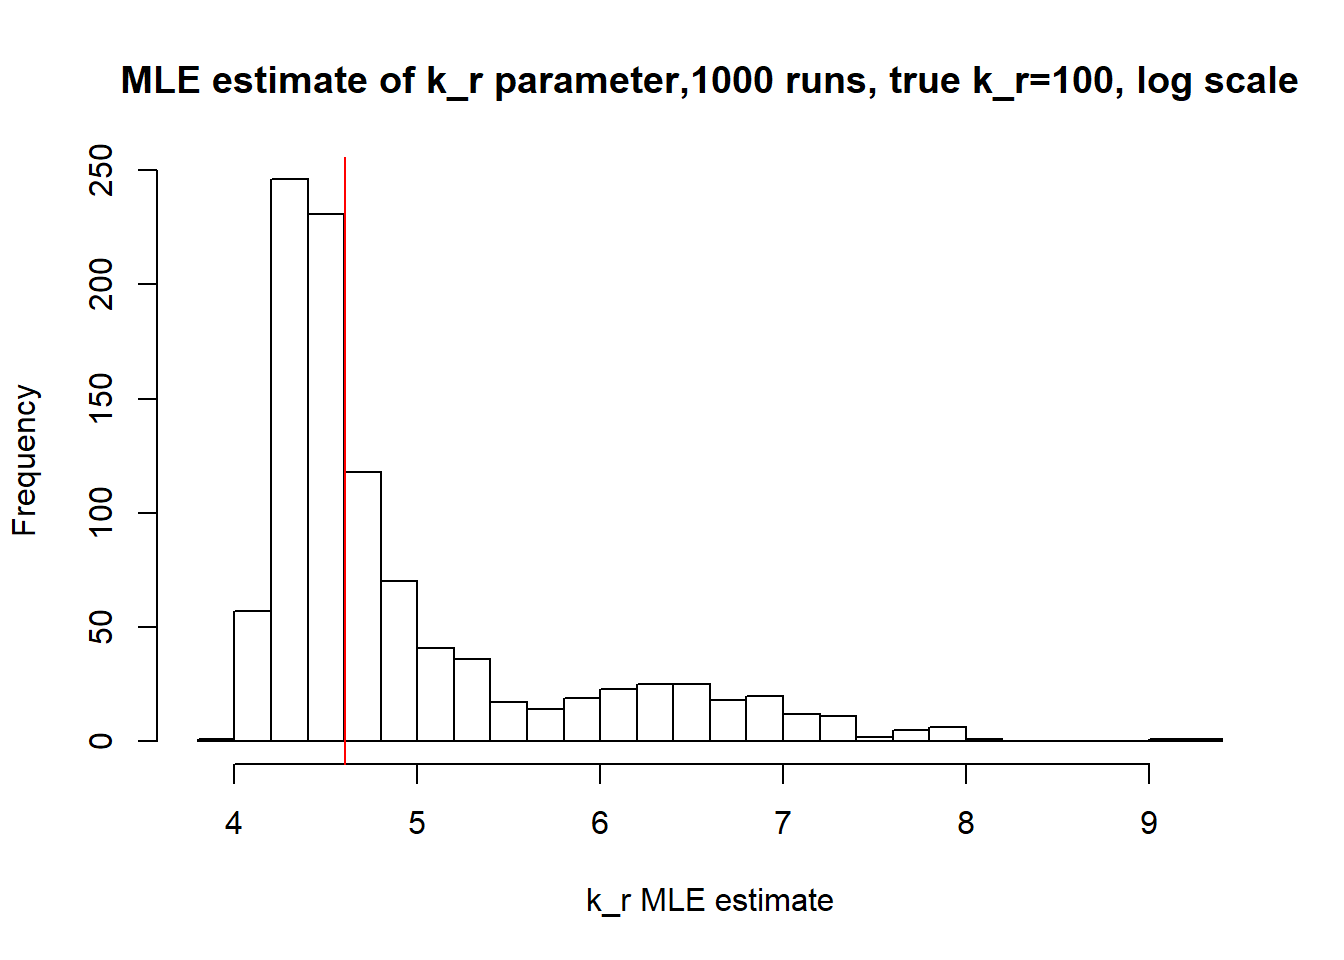
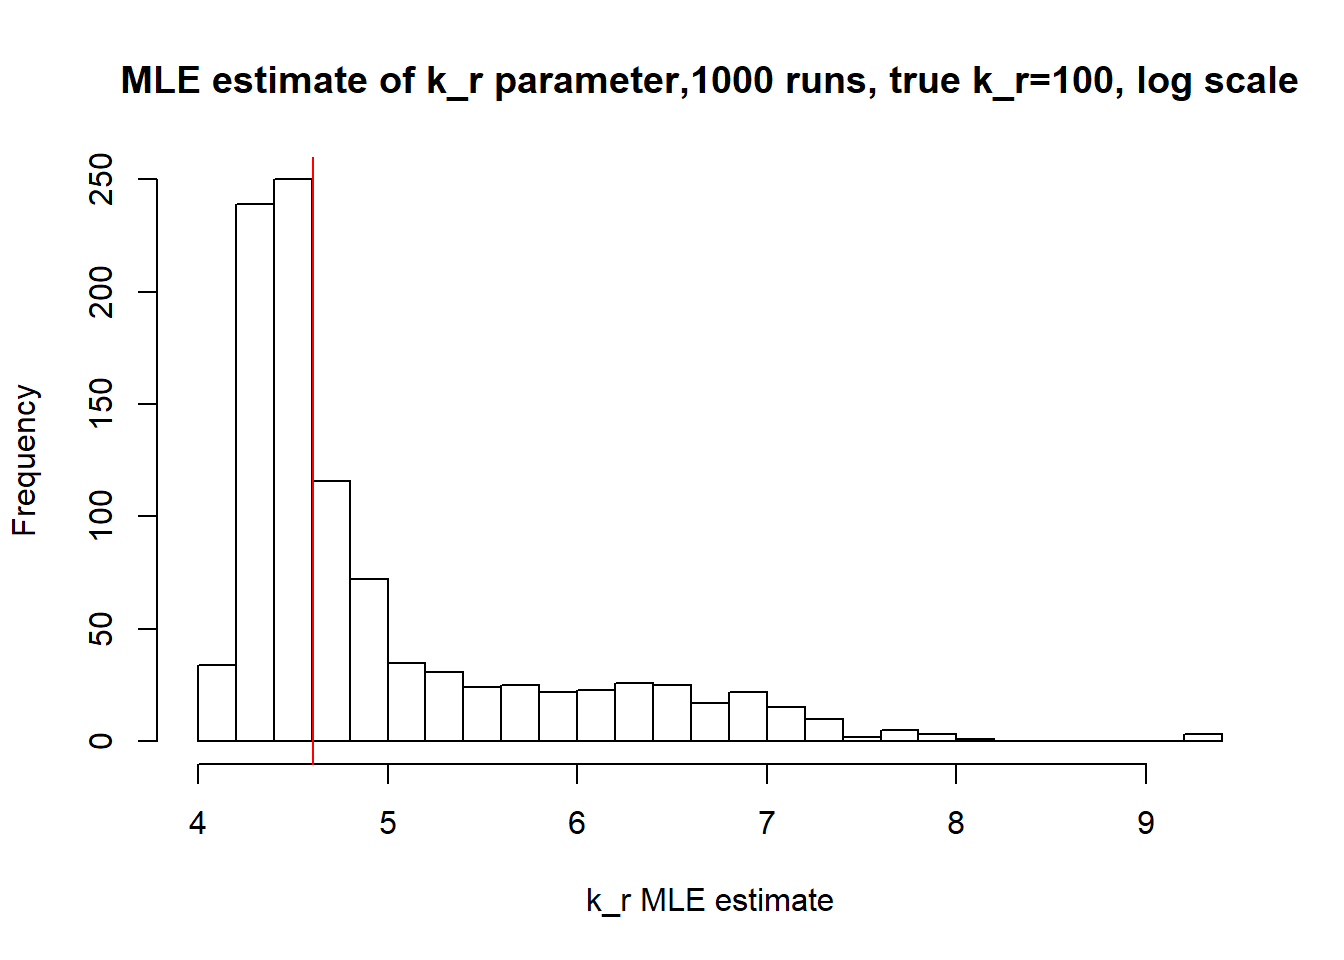
Build site.

diff --git a/docs/MLE_estimates.html b/docs/MLE_estimates.html
@@ -344,7 +344,7 @@ div.section {
 <div class="tab-content">
 <div id="summary" class="tab-pane fade in active">
 <p>
-<strong>Last updated:</strong> 2019-12-21
+<strong>Last updated:</strong> 2019-12-25
 </p>
 <p>
 <strong>Checks:</strong> <span class="glyphicon glyphicon-ok text-success" aria-hidden="true"></span> 6 <span class="glyphicon glyphicon-exclamation-sign text-danger" aria-hidden="true"></span> 1
@@ -359,7 +359,7 @@ This reproducible <a href="http://rmarkdown.rstudio.com">R Markdown</a> analysis
 <hr>
 </div>
 <div id="checks" class="tab-pane fade">
-<div class="panel-group" id="workflowr-checks">
+<div id="workflowr-checks" class="panel-group">
 <div class="panel panel-default">
 <div class="panel-heading">
 <p class="panel-title">
@@ -459,10 +459,10 @@ analysis/MLE.py
 <div class="panel panel-default">
 <div class="panel-heading">
 <p class="panel-title">
-<a data-toggle="collapse" data-parent="#workflowr-checks" href="#strongRepositoryversionstrongahrefhttpsgithubcomMargareth2407ThesissingleRNAtree4f04f01562acaa952ee0c942a661b1bf4d9dd845targetblank4f04f01a"> <span class="glyphicon glyphicon-ok text-success" aria-hidden="true"></span> <strong>Repository version:</strong> <a href="https://github.com/Margareth2407/Thesis_single_RNA/tree/4f04f01562acaa952ee0c942a661b1bf4d9dd845" target="_blank">4f04f01</a> </a>
+<a data-toggle="collapse" data-parent="#workflowr-checks" href="#strongRepositoryversionstrongahrefhttpsgithubcomMargareth2407ThesissingleRNAtree2bc1ff5e52b6066f161ee2dd56464614759ae28dtargetblank2bc1ff5a"> <span class="glyphicon glyphicon-ok text-success" aria-hidden="true"></span> <strong>Repository version:</strong> <a href="https://github.com/Margareth2407/Thesis_single_RNA/tree/2bc1ff5e52b6066f161ee2dd56464614759ae28d" target="_blank">2bc1ff5</a> </a>
 </p>
 </div>
[2 lines of base64/hex data omitted]
 <div class="panel-body">
 <p>
 Great! You are using Git for version control. Tracking code development and connecting the code version to the results is critical for reproducibility. The version displayed above was the version of the Git repository at the time these results were generated. <br><br> Note that you need to be careful to ensure that all relevant files for the analysis have been committed to Git prior to generating the results (you can use <code>wflow_publish</code> or <code>wflow_git_commit</code>). workflowr only checks the R Markdown file, but you know if there are other scripts or data files that it depends on. Below is the status of the Git repository when the results were generated:
@@ -481,6 +481,7 @@ Untracked files:
 
 Unstaged changes:
     Modified:   Data_sim.Rmd
+    Deleted:    analysis/Data_sim.Rmd
     Modified:   analysis/MLE.py
     Modified:   analysis/MLE_bootstrap.Rmd
 
@@ -504,51 +505,65 @@ There are no past versions. Publish this analysis with <code>wflow_publish()</co
 </div>
 <div id="mle-estimates-and-sampling-variability" class="section level1">
 <h1>MLE estimates and sampling variability</h1>
-<p>In this section we infer point estimates <span class="math inline">\(k_{on}\)</span>,<span class="math inline">\(k_{off}\)</span> and <span class="math inline">\(k_r\)</span> by maximum likelihood and estimate sampling variability of MLE.</p>
-<p>Now we will implement the method above, using code provided by Larsson et al. publication. Since the original code is in python, we have to source it from MLE.py script, generate 1000 datasets with same <span class="math inline">\(k_{on}\)</span>,<span class="math inline">\(k_{off}\)</span> and <span class="math inline">\(k_r\)</span> and get the point estimates. We repeat this process 4 times with different <span class="math inline">\(k_{on}\)</span>,<span class="math inline">\(k_{off}\)</span> scenarios.</p>
+<p>In this section we infer parameter estimates by maximum likelihood and estimate sampling variability of MLE.</p>
+<p>As explained in previous data simulation section, mRNA gene expression can be modelled as three or four parameter model.</p>
+<p>For three-parameter model probability distribution is:</p>
+<p><span class="math inline">\(P(X\leq x) = \int_0^{1} P(X\leq x|k_r*p)f(p)dp=\frac{1}{B(k_{on},k_{off})}\int_0^{1} P(X\leq x|k_r*p)p^{k_{on}-1}(1-p)^{k_{off}-1}dp\)</span></p>
+<p>Using <span class="math inline">\(t=2p-1\)</span>, <span class="math inline">\(p=\frac{t+1}{2}\)</span> and <span class="math inline">\(dt=2dp\)</span> we have</p>
+<p><span class="math inline">\(\frac{1}{B(k_{on},k_{off})}\frac{1}{2^{k_{on}+k_{off}-1}}\int_{-1}^{1} P(X\leq x|\frac{k_r(t+1)}{2})(1+t)^{k_{on}-1}(1-t)^{k_{off}-1}\)</span>, the integral can be computed with the use of Gauss-Jacobi quadrature method.</p>
+<p>And as we discussed previously, <span class="math inline">\(BetaPoisson(x|k_{on},k_{off},k_r,d) = BetaPoisson(\frac{x}{d}|k_{on},k_{off},k_r)\)</span>, so same applies to the probability distribution of four-parameter model.</p>
+<p>Using pdf of the model we can calculate log-likelihood for the data <span class="math inline">\(logL(k_{on},k_{off},k_{r},d)=\sum_x n(x) log(p(\frac{x}{d}|k_{on},k_{off},k_{r}))\)</span>, where <span class="math inline">\(n(x)\)</span> is the number of cells with mRNA expression level equal to x.</p>
+<p>To optimize the computations, we will choose initial values using method of moments.</p>
+<p>E(X) and Var(X) can be estimated from the data directly</p>
+<p><span class="math inline">\(Var(X|k_r*p)=E(X|k_r*p)=k_r*p\)</span> as mean and variance of Poisson distribution</p>
+<p><span class="math inline">\(E(X)=E(E(X|k_r*p))=k_r*\frac{k_{on}}{k_{on}+k_{off}}\)</span> by Tower Law</p>
+<p><span class="math inline">\(Var(X)=E(Var(X|k_r*p))+Var(E(X|k_r*p))=E(k_r*p) + Var(k_r*p) = k_r\frac{k_{on}}{k_{on}+k_{off}} + k_r^2\frac{k_{on}*k_{off}}{(k_{on}+k_{off})^2(k_{on}+k_{off}+1)}\)</span> by law of total variance.</p>
+<p>From that we can estimate <span class="math inline">\(k_{on}=\frac{E(X)}{k_r}(\frac{E(X)(k_r-E(X))}{Var(X)-E(X)}-1)\)</span> and <span class="math inline">\(k_{off}=k_{on}*\frac{k_r-E(X)}{E(X)}\)</span></p>
+<p>d is estimated as 0.1*median(X), if this value is less then 1.0 and 1.0 otherwise. After we choose d, we also scale data prior to other parameter initialization. Initial estimate of <span class="math inline">\(k_r\)</span> is chosen to be max(X).</p>
+<p>Now we will implement the method above, using code provided by Larsson et al. publication. Since the original code is in python, we have to source it from MLE.py script, generate 1000 datasets with same <span class="math inline">\(k_{on}\)</span>,<span class="math inline">\(k_{off}\)</span> and <span class="math inline">\(k_r\)</span> and get the point estimates. We repeat this process 4 times with different <span class="math inline">\(k_{on}\)</span>,<span class="math inline">\(k_{off}\)</span> scenarios.</p>
 <pre><code>Warning: package &#39;reticulate&#39; was built under R version 3.5.3</code></pre>
 <pre><code>Warning: package &#39;robustbase&#39; was built under R version 3.5.1</code></pre>
 <div id="i-small-k_on-and-k_off-case" class="section level2">
 <h2>I) Small <span class="math inline">\(k_{on}\)</span> and <span class="math inline">\(k_{off}\)</span> case:</h2>
 <p><img src="figure/MLE_estimates.Rmd/unnamed-chunk-2-1.png" width="672" style="display: block; margin: auto;" /></p>
-<pre><code>[1] &quot;true k_on is 0.1; k_on mean 0.1 k_on median 0.099&quot;</code></pre>
+<pre><code>[1] &quot;true k_on is 0.1; k_on mean 0.101 k_on median 0.1&quot;</code></pre>
 <p><img src="figure/MLE_estimates.Rmd/unnamed-chunk-2-2.png" width="672" style="display: block; margin: auto;" /></p>
-<pre><code>[1] &quot;true k_off is 0.1; k_off mean 0.101 k_off median 0.098&quot;</code></pre>
+<pre><code>[1] &quot;true k_off is 0.1; k_off mean 0.103 k_off median 0.101&quot;</code></pre>
 <p><img src="figure/MLE_estimates.Rmd/unnamed-chunk-2-3.png" width="672" style="display: block; margin: auto;" /></p>
-<pre><code>[1] &quot;true k_r is 100; k_r mean 100.035 k_r median 100.048&quot;</code></pre>
+<pre><code>[1] &quot;true k_r is 100; k_r mean 99.989 k_r median 99.991&quot;</code></pre>
 <p><img src="figure/MLE_estimates.Rmd/unnamed-chunk-2-4.png" width="672" style="display: block; margin: auto;" /><img src="figure/MLE_estimates.Rmd/unnamed-chunk-2-5.png" width="672" style="display: block; margin: auto;" /><img src="figure/MLE_estimates.Rmd/unnamed-chunk-2-6.png" width="672" style="display: block; margin: auto;" /></p>
 <p>Small <span class="math inline">\(k_{on}\)</span> and <span class="math inline">\(k_{off}\)</span> leads to bimodal distribution. As we see from histograms, mean and median MLE estimates are centered around true value.</p>
 </div>
 <div id="ii-large-k_on-and-k_off-case" class="section level2">
 <h2>II) Large <span class="math inline">\(k_{on}\)</span> and <span class="math inline">\(k_{off}\)</span> case:</h2>
 <p><img src="figure/MLE_estimates.Rmd/unnamed-chunk-3-1.png" width="672" style="display: block; margin: auto;" /></p>
-<pre><code>[1] &quot;true k_on is 10; k_on mean 11.49 k_on median 9.743&quot;</code></pre>
+<pre><code>[1] &quot;true k_on is 10; k_on mean 11.683 k_on median 9.893&quot;</code></pre>
 <p><img src="figure/MLE_estimates.Rmd/unnamed-chunk-3-2.png" width="672" style="display: block; margin: auto;" /></p>
-<pre><code>[1] &quot;true k_off is 10; k_off mean 70.312 k_off median 8.611&quot;</code></pre>
+<pre><code>[1] &quot;true k_off is 10; k_off mean 70.771 k_off median 9.249&quot;</code></pre>
 <p><img src="figure/MLE_estimates.Rmd/unnamed-chunk-3-3.png" width="672" style="display: block; margin: auto;" /></p>
-<pre><code>[1] &quot;true k_r is 100; k_r mean 253.411 k_r median 95.224&quot;</code></pre>
+<pre><code>[1] &quot;true k_r is 100; k_r mean 264.192 k_r median 97.03&quot;</code></pre>
 <p><img src="figure/MLE_estimates.Rmd/unnamed-chunk-3-4.png" width="672" style="display: block; margin: auto;" /><img src="figure/MLE_estimates.Rmd/unnamed-chunk-3-5.png" width="672" style="display: block; margin: auto;" /><img src="figure/MLE_estimates.Rmd/unnamed-chunk-3-6.png" width="672" style="display: block; margin: auto;" /></p>
 <p>Large <span class="math inline">\(k_{on}\)</span> and <span class="math inline">\(k_{off}\)</span> case lead to Poisson or negative binomial distribution and as we can see parameters are not identifiable.</p>
 </div>
 <div id="iii-large-value-if-k_off-and-small-k_on-case" class="section level2">
 <h2>III) Large value if <span class="math inline">\(k_{off}\)</span> and small <span class="math inline">\(k_{on}\)</span> case:</h2>
 <p><img src="figure/MLE_estimates.Rmd/unnamed-chunk-4-1.png" width="672" style="display: block; margin: auto;" /></p>
-<pre><code>[1] &quot;true k_on is 1; k_on mean 0.989 k_on median 0.975&quot;</code></pre>
+<pre><code>[1] &quot;true k_on is 1; k_on mean 0.98 k_on median 0.959&quot;</code></pre>
 <p><img src="figure/MLE_estimates.Rmd/unnamed-chunk-4-2.png" width="672" style="display: block; margin: auto;" /></p>
-<pre><code>[1] &quot;true k_off is 10; k_off mean 37.978 k_off median 7.091&quot;</code></pre>
+<pre><code>[1] &quot;true k_off is 10; k_off mean 38.834 k_off median 6.684&quot;</code></pre>
 <p><img src="figure/MLE_estimates.Rmd/unnamed-chunk-4-3.png" width="672" style="display: block; margin: auto;" /></p>
-<pre><code>[1] &quot;true k_r is 100; k_r mean 318.285 k_r median 75.216&quot;</code></pre>
+<pre><code>[1] &quot;true k_r is 100; k_r mean 327.105 k_r median 72.758&quot;</code></pre>
 <p><img src="figure/MLE_estimates.Rmd/unnamed-chunk-4-4.png" width="672" style="display: block; margin: auto;" /><img src="figure/MLE_estimates.Rmd/unnamed-chunk-4-5.png" width="672" style="display: block; margin: auto;" /><img src="figure/MLE_estimates.Rmd/unnamed-chunk-4-6.png" width="672" style="display: block; margin: auto;" /></p>
 <p>k_on parameter being estimated correctly, while k_off and k_r are non-identifiable.</p>
 </div>
 <div id="iv-small-value-if-k_off-and-big-k_on" class="section level2">
 <h2>IV) Small value if <span class="math inline">\(k_{off}\)</span> and big <span class="math inline">\(k_{on}\)</span></h2>
 <p><img src="figure/MLE_estimates.Rmd/unnamed-chunk-5-1.png" width="672" style="display: block; margin: auto;" /></p>
-<pre><code>[1] &quot;true k_on is 10; k_on mean 14.264 k_on median 10.14&quot;</code></pre>
+<pre><code>[1] &quot;true k_on is 10; k_on mean 15.195 k_on median 10.128&quot;</code></pre>
 <p><img src="figure/MLE_estimates.Rmd/unnamed-chunk-5-2.png" width="672" style="display: block; margin: auto;" /></p>
-<pre><code>[1] &quot;true k_off is 1; k_off mean 4.898 k_off median 1.154&quot;</code></pre>
+<pre><code>[1] &quot;true k_off is 1; k_off mean 7.195 k_off median 1.156&quot;</code></pre>
 <p><img src="figure/MLE_estimates.Rmd/unnamed-chunk-5-3.png" width="672" style="display: block; margin: auto;" /></p>
-<pre><code>[1] &quot;true k_r is 100; k_r mean 101.197 k_r median 99.967&quot;</code></pre>
+<pre><code>[1] &quot;true k_r is 100; k_r mean 102.921 k_r median 100.021&quot;</code></pre>
 <p><img src="figure/MLE_estimates.Rmd/unnamed-chunk-5-4.png" width="672" style="display: block; margin: auto;" /><img src="figure/MLE_estimates.Rmd/unnamed-chunk-5-5.png" width="672" style="display: block; margin: auto;" /><img src="figure/MLE_estimates.Rmd/unnamed-chunk-5-6.png" width="672" style="display: block; margin: auto;" /></p>
 <p>Ref. <a href="https://www.nature.com/articles/s41586-018-0836-1" class="uri">https://www.nature.com/articles/s41586-018-0836-1</a></p>
 <br>
